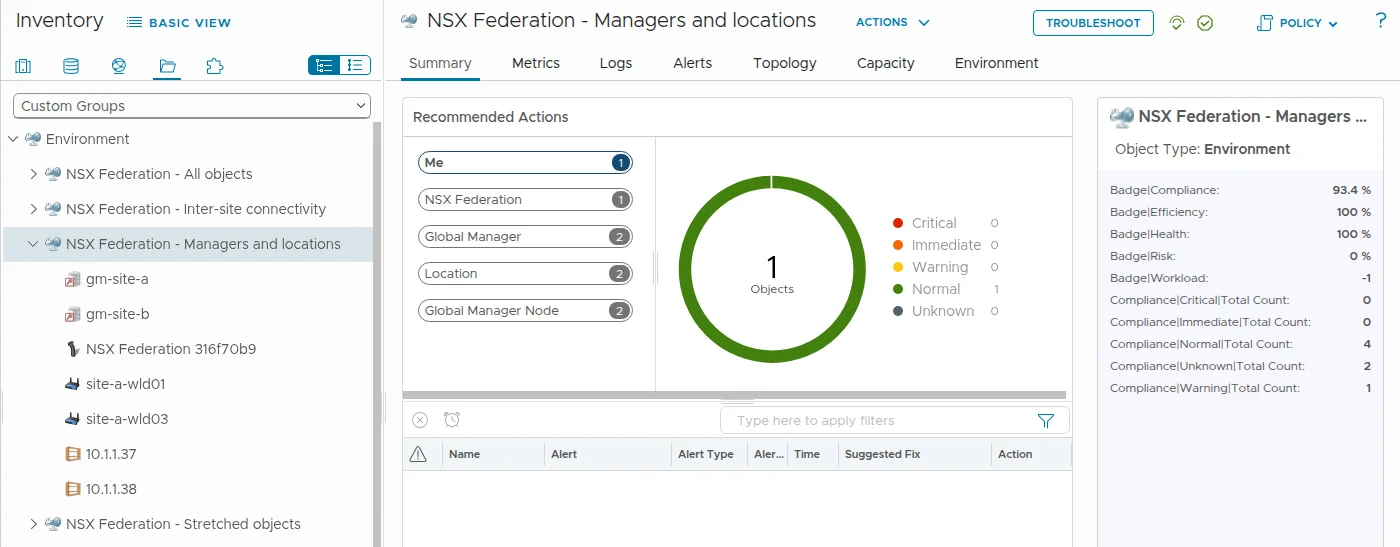
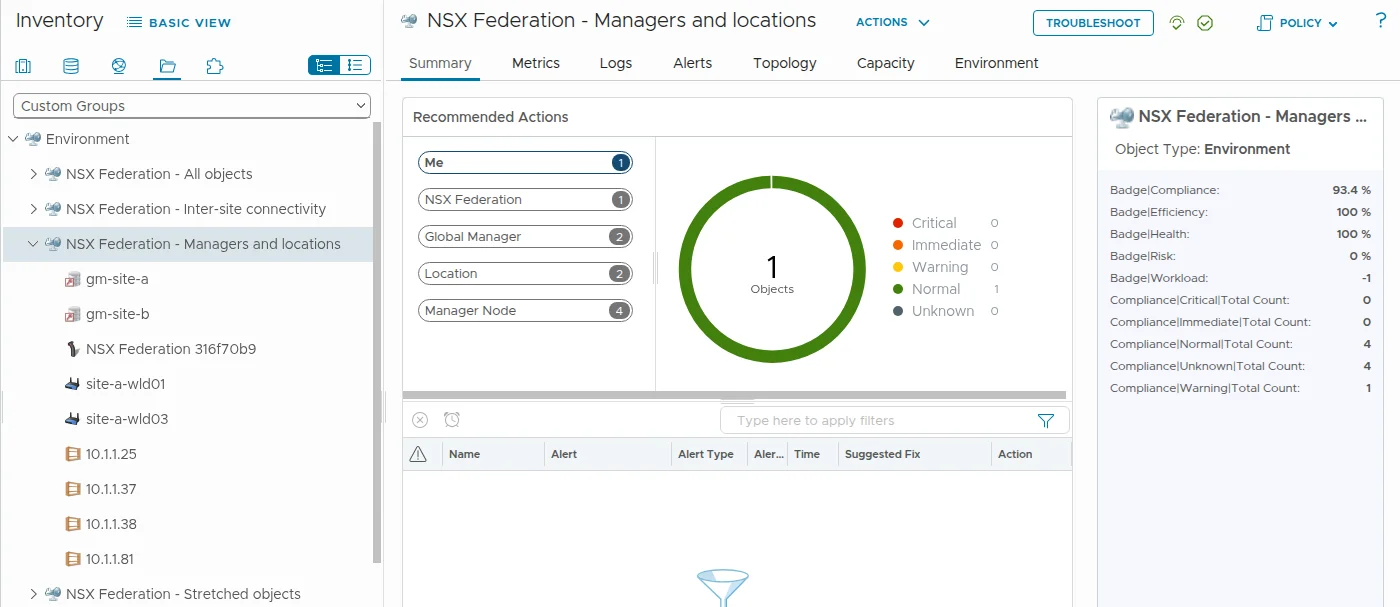
NSX Federation pack part 2: version 1.6.0 (certificate-bound sessions, one alert for a location outage, test suite) (EN/FR)
Claude-Session: https://claude.ai/code/session_01SphbqC1vQAcUKnbf7d1FJA

diff --git a/content/posts/nsx-federation-management-pack-install/index.md b/content/posts/nsx-federation-management-pack-install/index.md
@@ -1,7 +1,7 @@
 ---
 title: "Monitoring NSX Federation in VCF Operations, part 2: building, installing and what the pack captures"
 date: 2026-11-18
-description: "Part 2 of the NSX Federation management pack for VCF Operations 9.1.1: the adapter built with the Integration SDK, the install step by step with screenshots (HTTPS registry, certificate trust on the cloud proxy, unsigned pack, account), and what the pack monitors on a two-location lab federation: 70 objects, 420 metrics, 56 alert definitions, four custom groups, three dashboards, five views and a report. It also covers a Global Manager switchover and how to send the alerts by email."
+description: "Part 2 of the NSX Federation management pack for VCF Operations 9.1.1: the adapter built with the Integration SDK, the install step by step with screenshots (HTTPS registry, certificate trust on the cloud proxy, unsigned pack, account), and what the pack monitors on a two-location lab federation: 72 objects, 427 metrics, 57 alert definitions, four custom groups, three dashboards, five views and a report. It also covers a Global Manager switchover and how to send the alerts by email."
 summary: "The adapter collects a two-location NSX 9.1 Federation in about 12 seconds. Running it inside VCF Operations 9.1.1 takes an image registry served over HTTPS, a cloud proxy that trusts the registry certificate, and the setting that allows an unsigned pack. This post documents each install step with screenshots, lists what the pack monitors (objects, metrics, alerts, groups, dashboards, views), tests a Global Manager switchover, and shows how to send the alerts by email."
 tags: ["VCF 9.1.1", "NSX Federation", "VCF Operations", "Management pack", "Integration SDK", "Holodeck"]
 categories: ["Field notes"]
@@ -12,7 +12,7 @@ params:
   seoDescription: "Building and installing a custom NSX Federation management pack in VCF Operations 9.1.1: HTTPS registry, certificate trust, unsigned pack, and the objects, metrics, alerts, groups, dashboards and views it provides."
 ---
 
-[Part 1](/posts/nsx-federation-management-pack-design/) ended with a design and no code. This post covers the build, the install in VCF Operations 9.1.1 with screenshots, what the pack monitors (objects, metrics, alerts, groups, dashboards, views), a Global Manager switchover, and how to send the alerts by email. The pack described here is version 1.5.0, and its source is on GitHub: [sorinplaton/vcf-ops-nsx-federation-mp](https://github.com/sorinplaton/vcf-ops-nsx-federation-mp). The adapter itself took less time than the install. Three separate checks in VCF Operations stood between the `.pak` file and a running collector.
+[Part 1](/posts/nsx-federation-management-pack-design/) ended with a design and no code. This post covers the build, the install in VCF Operations 9.1.1 with screenshots, what the pack monitors (objects, metrics, alerts, groups, dashboards, views), a Global Manager switchover, and how to send the alerts by email. The pack described here is version 1.6.0, and its source is on GitHub: [sorinplaton/vcf-ops-nsx-federation-mp](https://github.com/sorinplaton/vcf-ops-nsx-federation-mp). The adapter itself took less time than the install. Three separate checks in VCF Operations stood between the `.pak` file and a running collector.
 
 ## The lab
 
@@ -35,7 +35,11 @@ The adapter is two Python files:
 - `nsxclient.py`: a read-only NSX REST client with cursor paging, a call budget per manager, back-off on HTTP 429 and 503, a certificate check by SHA-256 fingerprint, and a small on-disk cache for slow-moving data.
 - `adapter.py`: the object model, the collection logic and the events.
 
-The adapter instance takes one or two Global Manager addresses and one credential. It discovers the Local Managers from the Global Manager, and it compares the certificate of each Local Manager with the thumbprint the Global Manager already holds for it. The check has two modes: "enforce" stops the collection of a manager whose certificate does not match, and "report" collects and raises an alert. The lab account runs in "report". The account also accepts a separate credential for the Local Managers. The pack only reads from NSX, so a read-only account is enough. The lab account uses NSX's built-in `audit` account on all four managers and collects the same 70 objects as `admin`, with no failed call.
+The adapter instance takes one or two Global Manager addresses and one credential. It discovers the Local Managers from the Global Manager, and it compares the certificate of each Local Manager with the thumbprint the Global Manager already holds for it. A Global Manager is trusted by the certificate accepted on the account in VCF Operations. Once a certificate is checked, every connection of the cycle is bound to its fingerprint, so the credentials are not sent to a server that presents another certificate. The check has two modes: "enforce" stops the collection of a manager whose certificate does not match or that has no trusted certificate on record, and "report" collects and raises an alert. The lab account was created through the API, has no accepted certificate, and runs in "report". The account also accepts a separate credential for the Local Managers. The pack only reads from NSX, so a read-only account is enough. The lab account uses NSX's built-in `audit` account on all four managers and collects the same objects as `admin`, with no failed call.
+
+One account monitors one federation. A listed Global Manager that answers for another federation is reported and left out, and an optional setting names the federation object when VCF Operations monitors several.
+
+The pack has a test suite that needs no NSX: a mock answers the adapter's calls from an anonymised recording of the lab federation. Its 14 tests cover a normal cycle, failed calls, a location outage, a Global Manager of another federation, the cached location list, the call budget, certificate trust and a federation with 500 more segments. A GitHub Actions workflow runs them on every push.
 
 Before any install, the collection ran against the live managers from the tooling container:
 
@@ -157,7 +161,7 @@ These calls are internal to the UI. They are unsupported and can change with any
 
 After the install, the adapter kind `NSXFederation` and the solution `iSDK_NSXFederation` appear in VCF Operations. The pack shows under Administration, Integrations, Repository with its version:
 
-![Administration, Integrations, Repository filtered on "Federation": the NSX Federation pack, version 1.5.0, with one account](/images/nsx-federation-mp/ops-repository-pack.webp)
+![Administration, Integrations, Repository filtered on "Federation": the NSX Federation pack, version 1.6.0, with one account](/images/nsx-federation-mp/ops-repository-pack.webp)
 
 ### Step 4: create the account
 
@@ -189,13 +193,13 @@ A change in how the adapter identifies an object creates a new object. The old o
 
 ### Objects
 
-The pack creates 70 objects of 14 types in the lab. Part 1 planned 12 types. The enterprise-scale review added the federation itself, the sync channel and the realization of an object at a location, and rules became opt-in.
+The pack creates 72 objects of 14 types in the lab. Part 1 planned 12 types. The enterprise-scale review added the federation itself, the sync channel and the realization of an object at a location, and rules became opt-in.
 
 | Object type | Count in the lab | Examples of what is collected |
 | --- | --- | --- |
 | Federation | 1 | Active Global Managers, locations healthy and collected, RTEP rollups, API errors, managers over the call budget |
 | Global Manager | 2 | Standby in sync, entries left to send to the standby, backup state, open alarms, days to the first certificate expiry |
-| Global Manager node | 2 | Online state |
+| Manager node | 4 | Online state of each Global Manager and Local Manager node |
 | Location | 2 | Connection to the Global Manager, collector reachability, nodes online, full sync failures, inter-site BGP sessions, alarms, version |
 | Sync channel | 9 | Connection state between two managers |
 | Edge cluster | 2 | Inter-site status, members, RTEP addresses |
@@ -224,13 +228,13 @@ The pack also ships an inventory tree. To open it, go to Inventory, click Detail
 
 ### Custom groups
 
-Four custom groups come with the pack: all objects of the pack (70 in the lab), managers and locations (7), inter-site connectivity (39) and stretched objects (24). A group collects the alerts and badges of its members, and a policy or a notification rule can take it as its scope. The groups sit under Inventory, Custom Groups, Environment. Membership follows the object type, so a new location or a new tunnel joins its group without an edit. A group per location would need the name of each location, so the pack does not ship one.
+Four custom groups come with the pack: all objects of the pack (72 in the lab), managers and locations (9), inter-site connectivity (39) and stretched objects (24). A group collects the alerts and badges of its members, and a policy or a notification rule can take it as its scope. The groups sit under Inventory, Custom Groups, Environment. Membership follows the object type, so a new location or a new tunnel joins its group without an edit. A group per location would need the name of each location, so the pack does not ship one.
 
-![Custom group "NSX Federation - Managers and locations": the two Global Managers, the federation, the two locations and the two Global Manager nodes, with no open alert](/images/nsx-federation-mp/ops-custom-groups.webp)
+![Custom group "NSX Federation - Managers and locations": the two Global Managers, the federation, the two locations and the four manager nodes, with no open alert](/images/nsx-federation-mp/ops-custom-groups.webp)
 
 ### Metrics
 
-The pack sends 420 metrics per cycle in the lab once the rates are available.
+The pack sends 427 metrics per cycle in the lab once the rates are available.
 
 The metrics sit in groups, as in the built-in integrations: Sync, Connectivity, Certificates, Alarms, Rates and so on, 17 groups in all. The metric tree of an object stays short enough to read. The key of a metric carries its group, `sync|standby_in_sync` for example.
 
@@ -246,13 +250,13 @@ Three metrics are derived by the adapter, because a symptom compares a metric wi
 
 Seven figures cover the whole federation, on the federation object: locations healthy, as a count and a percentage; RTEP tunnels; tunnels whose BGP session is down; RTEP drops per minute over all tunnels; days to the first certificate expiry on any manager; open critical alarms on all managers. A super metric could compute some of them, but it does nothing until a policy enables it, so the adapter computes all seven. In the lab they read two of two locations healthy (100 %), eight tunnels, none down, no drops, 331.6 days to the first certificate expiry (a Local Manager certificate) and no critical alarm.
 
-The table below gives the coverage of each object type. The Metrics column counts the metric keys defined for the type. Not every object sends every key (only policy realizations carry counters, for example), so the column multiplied by the object counts does not give 420.
+The table below gives the coverage of each object type. The Metrics column counts the metric keys defined for the type. Not every object sends every key (only policy realizations carry counters, for example), so the column multiplied by the object counts does not give 427.
 
 | Object type | Metrics | Alert definitions | Dashboard |
 | --- | --- | --- | --- |
-| Federation | 22 | 8 | Federation Overview |
+| Federation | 25 | 9 | Federation Overview |
 | Global Manager | 12 | 17 | Federation Overview |
-| Global Manager node | 1 | None, covered by the cluster alert of the Global Manager | Related objects only |
+| Manager node | 1 | None, covered by the cluster alert of its Global Manager or location | Related objects only |
 | Location | 14 | 18 | Federation Overview |
 | Sync channel | 1 | 1 | Inter-site Connectivity |
 | Edge cluster | 4 | 1 | Inter-site Connectivity |
@@ -266,7 +270,7 @@ The table below gives the coverage of each object type. The Metrics column count
 
 ### Alerts
 
-The pack has 56 alert definitions, 71 symptoms and 30 recommendations. The content is one XML file in `content/alertdefs`. A script generates it from a table of symptoms, alerts and recommendations. A symptom is a condition on one metric, one property or one event. Two symptoms use a dynamic threshold. A condition on a property looks like this:
+The pack has 57 alert definitions, 83 symptoms and 31 recommendations. The content is one XML file in `content/alertdefs`. A script generates it from a table of symptoms, alerts and recommendations. A symptom is a condition on one metric, one property or one event. Two symptoms use a dynamic threshold. A condition on a property looks like this:
 
 ```xml
 <SymptomDefinition adapterKind="NSXFederation" id="SymptomDefinition-NSXFederation-gm_backup_off"
@@ -285,11 +289,11 @@ A condition on an event matches the text of the event with a regular expression:
            operator="regex" type="msg_event"/>
 ```
 
-The 56 definitions, by object type:
+The 57 definitions, by object type:
 
 | Object type | Definitions | Alerts |
 | --- | --- | --- |
-| Federation | 8 | No active Global Manager; split-brain (two active); a Global Manager not reachable by the collector; no standby configured; partial collection (API call budget used); collection with data gaps; collection slow or throttled; collection without a Global Manager |
+| Federation | 9 | No active Global Manager; split-brain (two active); a Global Manager not reachable by the collector; no standby configured; partial collection (API call budget used); collection with data gaps; collection slow or throttled; collection without a Global Manager; a listed Global Manager of another federation |
 | Global Manager | 17 | Cluster degraded; backup missing, old or failed; certificate about to expire; standby not in sync; 13 NSX federation alarms (see below) |
 | Location | 18 | Connection to the active Global Manager lost; Local Manager not reachable by the collector; certificate not trusted; full sync not completed; inter-site BGP sessions down; NSX release differs from the Global Manager; backup missing or old; certificate about to expire; Local Manager cluster degraded; 9 NSX federation alarms |
 | Sync channel | 1 | Channel down |
@@ -320,15 +324,32 @@ Most of the collection is made of secondary calls: cluster status, alarms, backu
 
 The federation object counts these calls in the metric "NSX API calls without an answer" and lists them in a property, with the manager, the call and the HTTP status. Three alerts watch the collection itself: data gaps for two cycles, a collection that takes more than four minutes or is throttled by NSX, and a collection that runs without any Global Manager.
 
-This was tested by fault injection in a local run: the status, backup, alarm and cluster calls were made to answer HTTP 500 on every manager. The run reported 15 calls without an answer and sent none of the values behind them.
+This was tested by fault injection in a local run: the status, backup, alarm and cluster calls were made to answer HTTP 500 on every manager. The run reported 15 calls without an answer and sent none of the values behind them. A call that times out or loses its connection is retried once before it counts as failed.
 
 An alert from a definition carries its recommendation and the symptom that triggered it:
 
 ![Detail of the alert "Global Manager backup is missing, old or failed" on gm-site-a: description, recommendation and the symptom "Backup is not configured on the Global Manager"](/images/nsx-federation-mp/ops-alert-recommendation.webp)
 
+#### One alert for a location outage
+
+A location that loses its connection to the Global Manager takes many objects with it: the tunnels and BGP sessions of the other locations towards it, the sync channels, and every stretched object that spans it. Each of them has an alert, and all of them would fire next to the alert of the location.
+
+While the active Global Manager reports a location as not connected, the adapter writes the name of that location to a property, "Locations in outage", on every location, sync channel, edge, tunnel, BGP neighbor and stretched object. Twelve alert definitions require that this property reads "none". They stay quiet during the outage, and "Location lost its connection to the active Global Manager" is the alert to act on. In the alert XML this is a second symptom with `negateCondition="true"`:
+
+```xml
+<SymptomSet applyOn="self" operator="and">
+    <Symptom ref="SymptomDefinition-NSXFederation-seg_error"/>
+    <Symptom ref="SymptomDefinition-NSXFederation-outage_segment" negateCondition="true"/>
+</SymptomSet>
+```
+
+The rule was tested on the lab without an outage. With the account stopped, the suite API wrote "one location in error" on the segment fed-stretched (`POST /api/resources/{id}/stats`), and the alert "Stretched segment is in error at a location" fired. Writing the name of a location to the property (`POST /api/resources/{id}/properties`) cancelled the alert while the symptom of the fault stayed active. The values were then restored and the account started again.
+
+A second, unrelated fault on these objects raises no alert while the outage lasts. Its metrics and properties are still collected.
+
 #### The standby Global Manager
 
-The active Global Manager carries two metrics about its standby: standby Global Managers in sync (1 when all are), and entries left to send. A standby counts as in sync when its full sync is complete and the delta sync runs, and as out of sync on a failure or an error. NSX 9.1 reports the normal state of a standby as ONGOING, together with a delta sync, a completed full sync and no entries left to send, so the status text alone cannot be the test. The alert "Standby Global Manager is not in sync" fires after three cycles and clears after two. In the lab the metric reads 1 with no entries left.
+Two metrics describe the standby: standby sync healthy (1 when in sync) and entries left to send. The active Global Manager carries them for all its standbys, and each standby carries its own. A standby counts as in sync when its full sync is complete and the delta sync runs, and as out of sync on a failure or an error. NSX 9.1 reports the normal state of a standby as ONGOING, together with a delta sync, a completed full sync and no entries left to send, so the status text alone cannot be the test. The alert "Standby Global Manager is not in sync" fires after three cycles and clears after two. In the lab the metric reads 1 with no entries left.
 
 #### Switchover test
 
@@ -358,7 +379,7 @@ The Federation Overview dashboard with gm-site-b active:
 
 ![The Federation Overview dashboard during the switchover test: gm-site-b selected, its scoreboard with Standby in sync 1, nodes online 1, nodes offline 0 and certificate expiry 822.6 days, and the open alerts of the lab at the time of the test](/images/nsx-federation-mp/ops-switchover-gm-b.webp)
 
-The test showed one side effect: the standby sync metrics belong to the active Global Manager. After the switchover, the former active stops sending them, and VCF Operations keeps showing their last value. The scoreboard of the former active therefore still showed "Standby in sync 1" while it was the standby itself. The value left behind was 1, so no alert was raised.
+After a switchover the former active Global Manager is a standby. Each standby carries its own sync value, as the active one reports it, so a Global Manager keeps a current value in either role.
 
 A planned switchover never leaves the federation without an active Global Manager, so the alerts "no active Global Manager" and "Global Manager not reachable" did not fire, as expected. Testing them takes an unplanned failure of the active Global Manager.
 
@@ -390,9 +411,9 @@ The 1,219 alert definitions and 1,991 symptom definitions on the lab's VCF Opera
 
 | | Built-in NSX | Built-in vCenter | Built-in vSAN | NSX Federation pack |
 | --- | --- | --- | --- | --- |
-| Alert definitions | 423 | 185 | 225 | 56 |
-| Main trigger | NSX alarms as events (381), properties | Properties (702), vCenter faults (107) | Faults (504) | Metric thresholds (36), NSX alarms as events (22), properties (11), dynamic thresholds (2) |
-| Badge | 405 Health, 18 Risk | 129 Health, 55 Risk, 1 Efficiency | 206 Health, 15 Risk, 4 Efficiency | 46 Health, 10 Risk |
+| Alert definitions | 423 | 185 | 225 | 57 |
+| Main trigger | NSX alarms as events (381), properties | Properties (702), vCenter faults (107) | Faults (504) | Metric thresholds (37), NSX alarms as events (22), properties (22), dynamic thresholds (2) |
+| Badge | 405 Health, 18 Risk | 129 Health, 55 Risk, 1 Efficiency | 206 Health, 15 Risk, 4 Efficiency | 47 Health, 10 Risk |
 | Symptoms with wait or cancel cycles above 1 | None | 31 | None | 15 |
 | Compliance alerts | 9 | 2 | None | 4 |
 
@@ -478,7 +499,7 @@ A rule on the pack's object types, limited to Immediate and Critical, sends the 
 ## Sources
 
 - Lab: nested VCF 9.1.1 Holodeck, NSX 9.1.1.0 (Local Managers) and 9.1.1.0100 (Global Managers), VCF Operations 9.1.1.0 build 25795063. Build, install and tests from 17 to 19 November 2026.
-- Source of the pack: [github.com/sorinplaton/vcf-ops-nsx-federation-mp](https://github.com/sorinplaton/vcf-ops-nsx-federation-mp), tag v1.5.0
+- Source of the pack: [github.com/sorinplaton/vcf-ops-nsx-federation-mp](https://github.com/sorinplaton/vcf-ops-nsx-federation-mp), tag v1.6.0
 - [VCF Operations Integration SDK](https://vmware.github.io/vmware-vcf-operations-integration-sdk/introduction)
 - Broadcom KB [415279](https://knowledge.broadcom.com/external/article/415279/error-no-signature-found-on-pak-file-wh.html): "No signature found on PAK file" while installing a management pack
 - [Docker: verify repository client with certificates](https://docs.docker.com/engine/security/certificates/)
